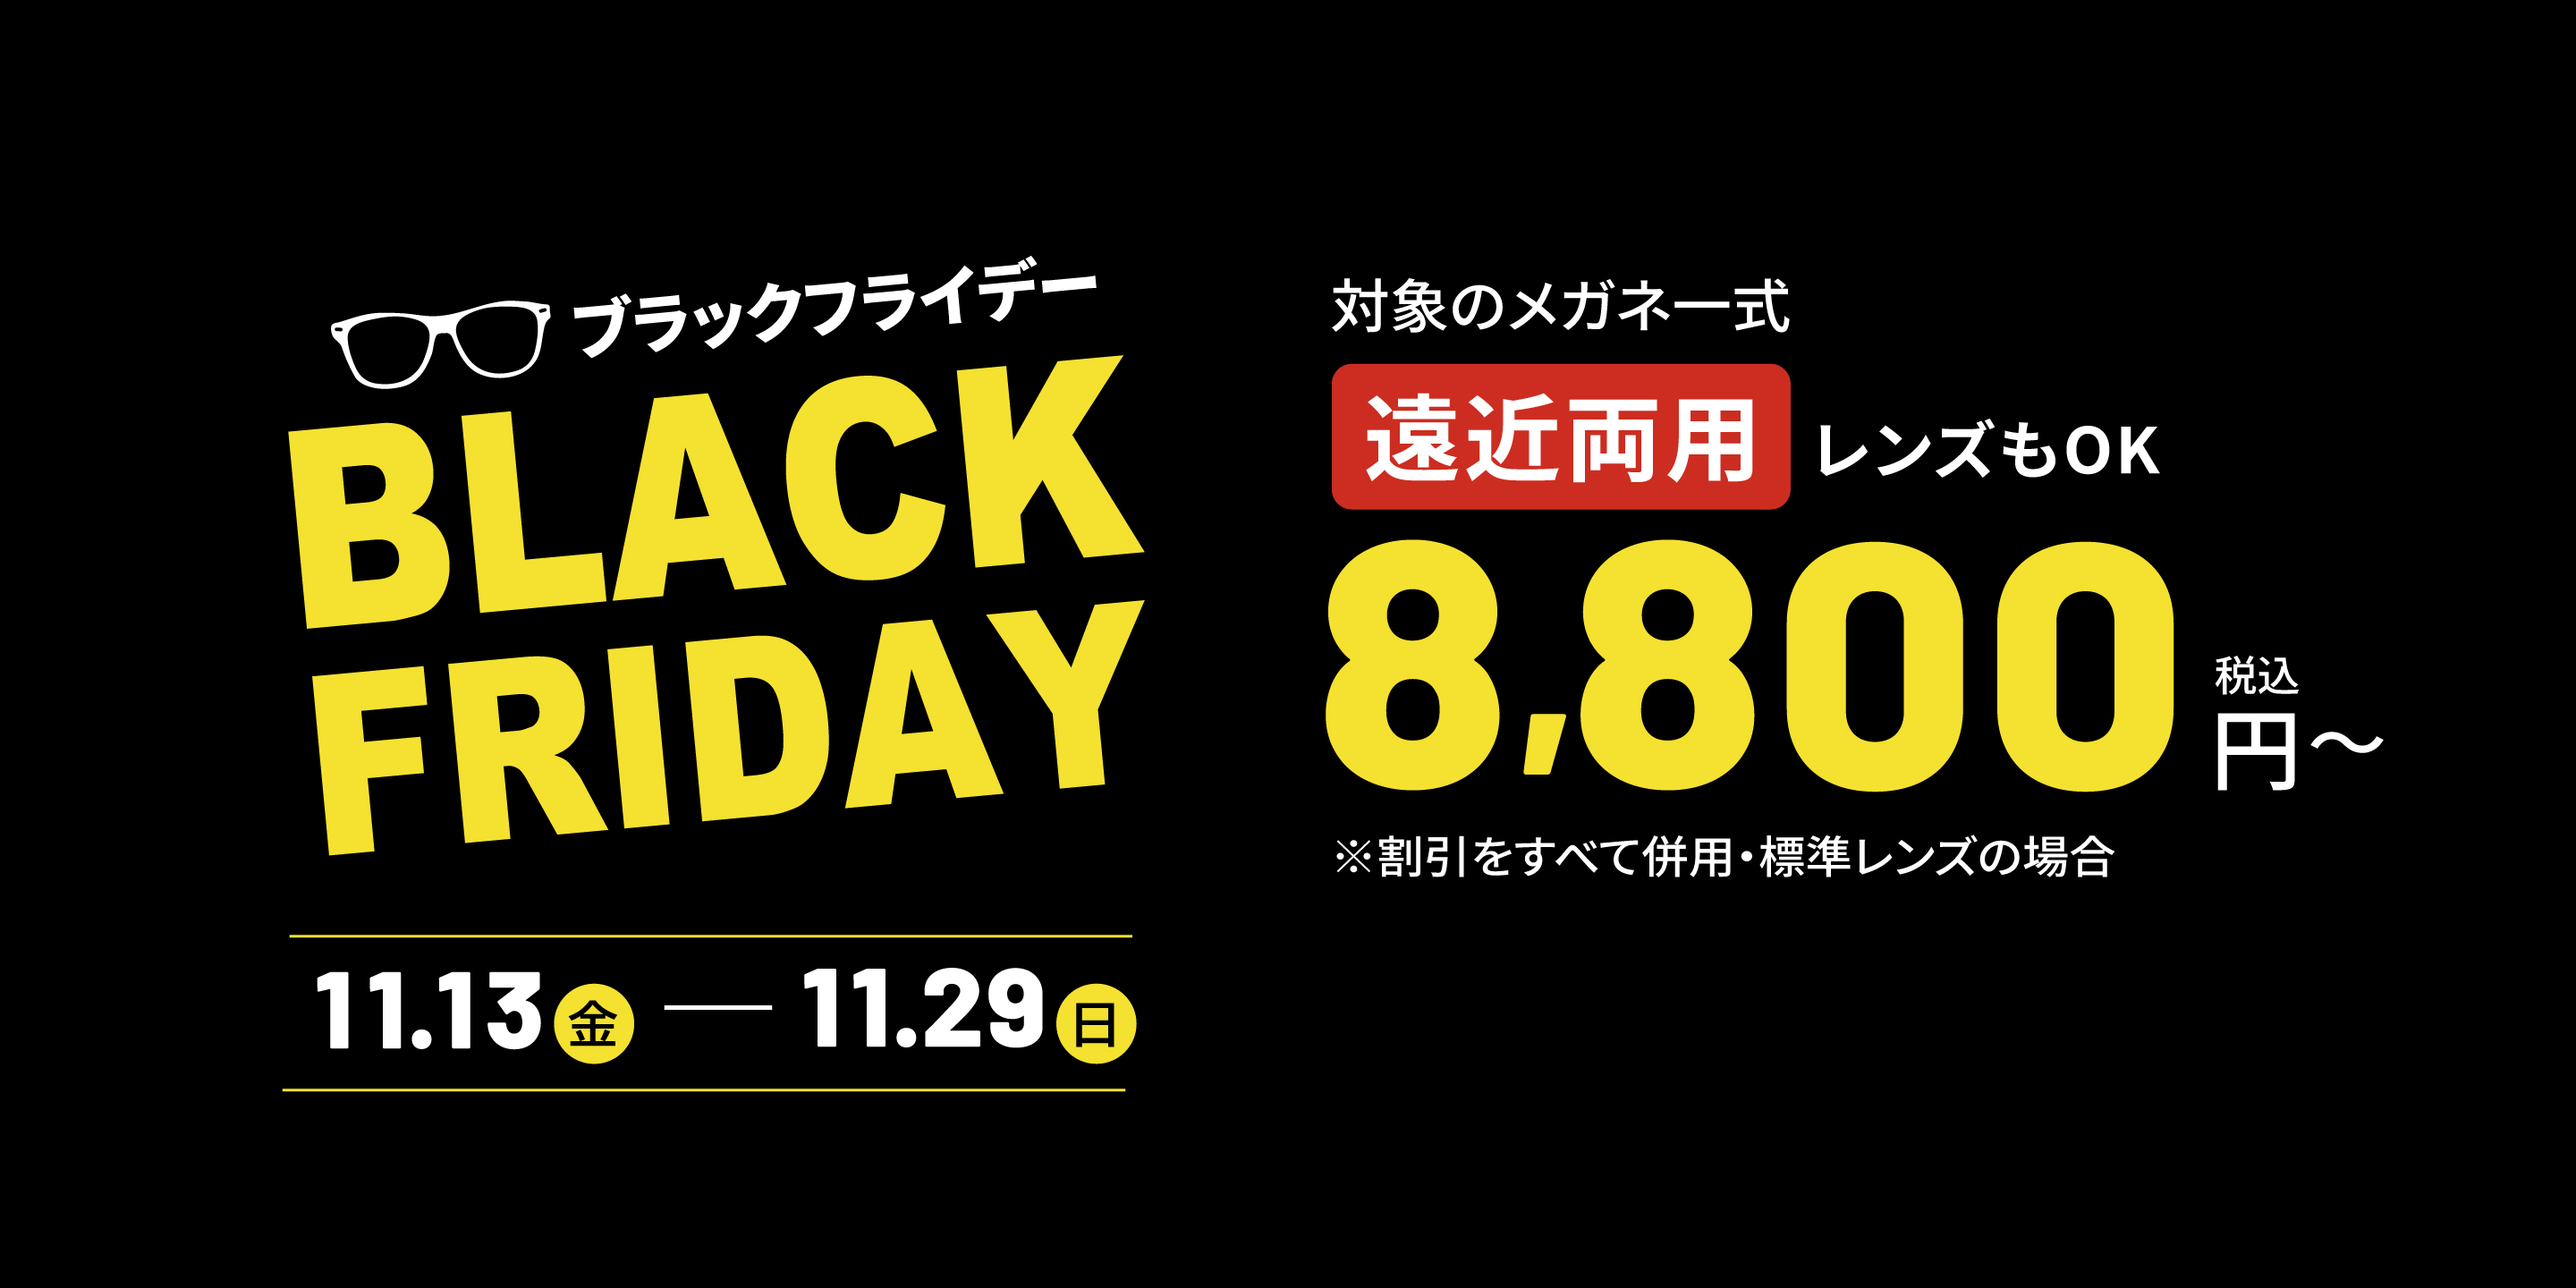
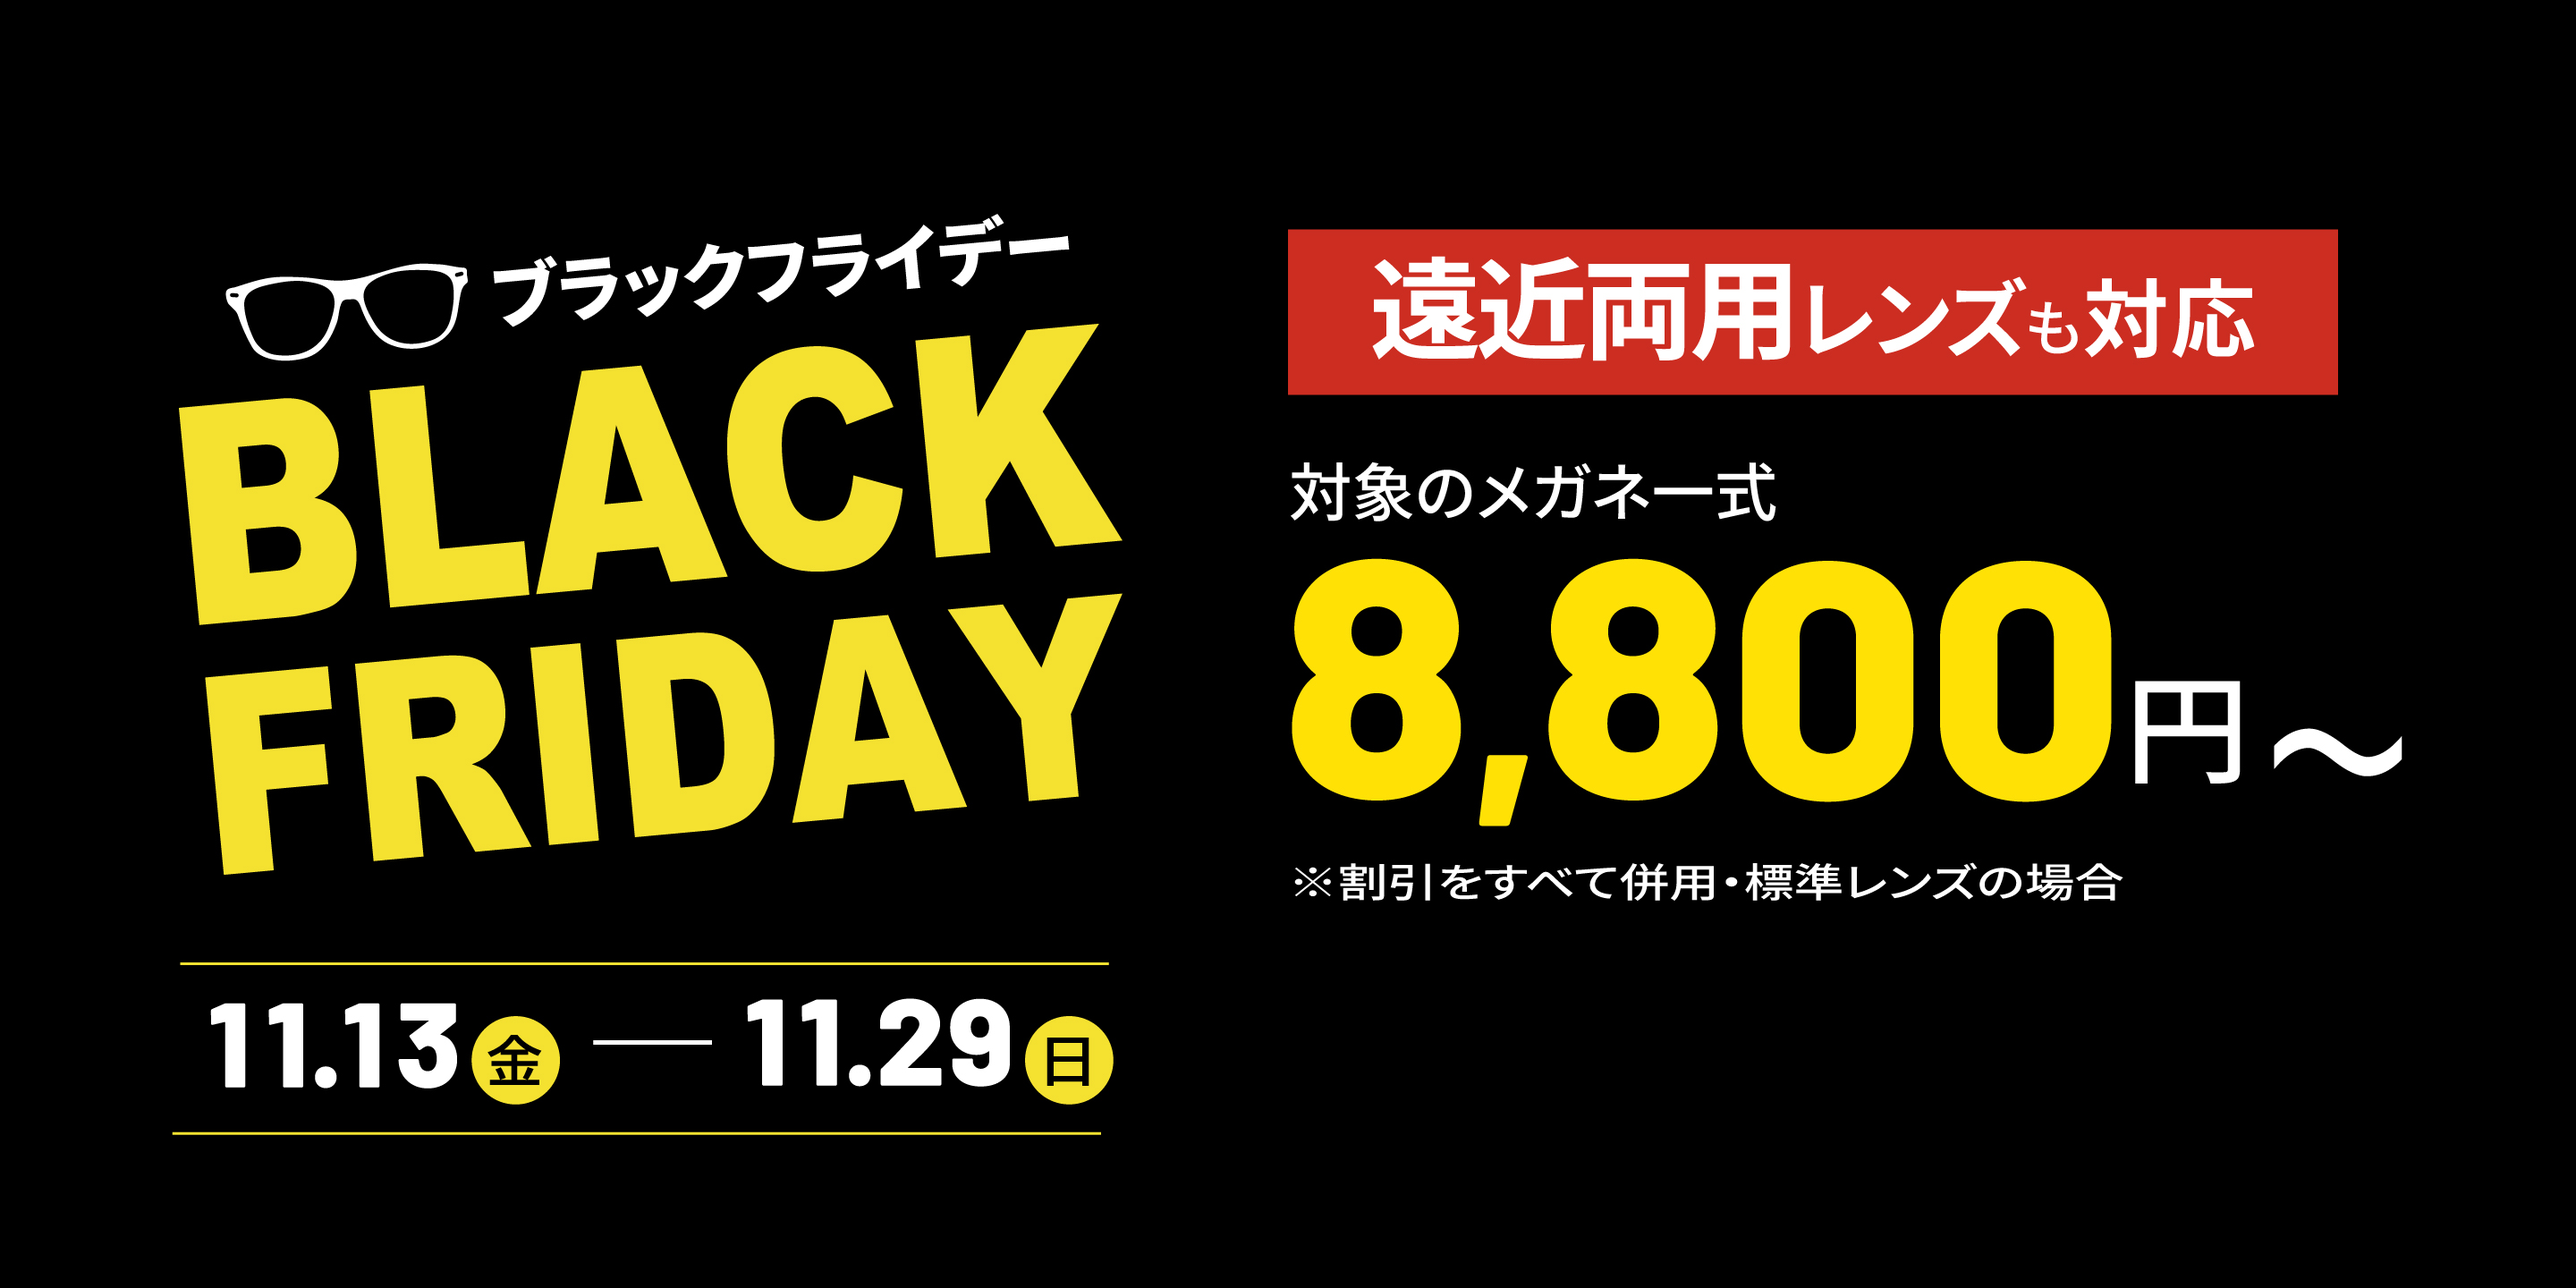
11/4 ご来店からお受け取りまで：ご来店は2回がわかる形に（1回目・2回目の箱＋約1週間後の矢印）

Changed region(s): [[0.5, 0.1562, 0.9375, 0.7188], [0.0625, 0.1562, 0.4375, 0.6875], [0.0625, 0.7188, 0.4375, 0.875]]

diff --git a/index.html b/index.html
@@ -2499,6 +2499,30 @@
     .reasons .reason:nth-child(3) .hs-item[open]:first-child { background: #fafaf7; }
   }
 
+  /* ===== 11/4 ご来店の流れ：「ご来店は2回」がわかる形に（Iさん「もう少しわかりやすく」）。1回目・2回目をそれぞれ箱に、あいだに矢印「約1週間後」 ===== */
+  .flow-lead { text-align: center; font-size: 16px; font-weight: 700; line-height: 1.7; margin: -16px 0 32px; }
+  .flow-lead em { font-style: normal; color: #e8352a; font-size: 1.4em; margin: 0 2px; }
+  .flow-day { background: #fafaf7; border-radius: 10px; padding: 20px 18px 16px; }
+  .flow-day2 .flow-list li { padding-bottom: 4px; }
+  .flow-wait { position: relative; border: 0 !important; padding: 18px 0 30px !important; margin: 0 !important; }
+  .flow-wait::after { content: ""; position: absolute; left: 50%; bottom: 8px; transform: translateX(-50%); border: 12px solid transparent; border-top: 14px solid #f4e030; border-bottom: 0; }
+  @media (min-width: 1024px) {
+    .flow-lead { font-size: 20px; margin: -24px 0 48px; }
+    .flow-in { grid-template-columns: 1fr 150px 210px !important; align-items: stretch !important; }
+    .flow-day { padding: 28px 16px 24px; }
+    .flow-lb { justify-content: center; }
+    .flow-wait { display: flex !important; flex-direction: column; justify-content: center; align-items: center; padding: 0 12px !important; }
+    .flow-wait::before { display: none !important; }
+    .flow-wait::after { position: static; transform: none; margin-top: 10px; border: 14px solid transparent; border-left: 18px solid #f4e030; border-right: 0; order: 2; }
+    .flow-wait-t { order: 1; }
+    .flow-wait small { order: 3; margin-top: 10px !important; }
+    .flow-day2 { display: flex; flex-direction: column; }
+    .flow-day2 .flow-list { flex: 1; display: flex; align-items: flex-start; justify-content: center; }
+    .flow-day .flow-list b { white-space: nowrap; font-size: 16px; }
+    .flow-day .flow-list li { padding: 0 2px !important; }
+    .flow-day .flow-list small { font-size: 12px !important; }
+  }
+
   /* ===== 11/3 選ばれる理由：PCは「文字｜絵」の2列を左右交互に（真ん中寄せの1列は中途半端・Iさん）。番号は丸→大きい01・02・03 ===== */
   @media (min-width: 1024px) {
     .reasons { max-width: 1080px !important; }
@@ -2948,9 +2972,10 @@
   <!-- 11/3 ご来店からお受け取りまで（Zoffの遠近LPの「できるまで」を参考に、はじめての方の「何回・どれくらい？」に答える。内容はIさん） -->
   <section class="sec flow" id="flow">
     <div class="sec-head"><h2 class="sec-ja">ご来店から<br class="pc-hide">お受け取りまで</h2></div>
+    <p class="flow-lead">ご来店は<em>2回</em>。<br class="pc-hide">1回目は約1時間、<br class="pc-hide">約1週間後にお受け取りです</p><!-- 11/4 何回行くかがひと目でわかるように（Iさん） -->
     <div class="flow-in">
       <div class="flow-day">
-        <p class="flow-lb"><span class="flow-tag">ご来店の日</span><span class="flow-time">約<b>1</b>時間</span></p>
+        <p class="flow-lb"><span class="flow-tag">1回目のご来店</span><span class="flow-time">約<b>1</b>時間</span></p>
         <ol class="flow-list">
           <li><span class="flow-ic"><svg viewBox="0 0 48 48" aria-hidden="true"><circle cx="24" cy="24" r="16"/><circle cx="24" cy="24" r="6"/><path d="M24 4v6M24 38v6M4 24h6M38 24h6"/></svg></span><span class="flow-n">STEP 1</span><b>目の測定</b><small>今の見え方をしっかり測ります</small></li>
           <li><span class="flow-ic"><svg viewBox="0 0 48 48" aria-hidden="true"><circle cx="14" cy="26" r="8"/><circle cx="34" cy="26" r="8"/><path d="M22 25q2-3 4 0M6 25H3M42 25h3"/></svg></span><span class="flow-n">STEP 2</span><b>フレーム選び</b><small>似合う形を、いっしょに探します</small></li>
@@ -2959,9 +2984,9 @@
           <li><span class="flow-ic"><svg viewBox="0 0 48 48" aria-hidden="true"><rect x="7" y="13" width="34" height="22" rx="3"/><path d="M7 20h34M13 29h8"/></svg></span><span class="flow-n">STEP 5</span><b>お会計</b><small>割引はすべて併用できます</small></li>
         </ol>
       </div>
-      <p class="flow-wait"><span class="flow-wait-t">約<b>1</b>週間</span><small>※レンズの種類によって前後します</small></p>
+      <p class="flow-wait"><span class="flow-wait-t">約<b>1</b>週間後</span><small>※レンズの種類によって前後します</small></p>
       <div class="flow-day flow-day2">
-        <p class="flow-lb"><span class="flow-tag">できあがり</span></p>
+        <p class="flow-lb"><span class="flow-tag">2回目のご来店</span></p>
         <ol class="flow-list" start="6">
           <li><span class="flow-ic"><svg viewBox="0 0 48 48" aria-hidden="true"><rect x="8" y="18" width="32" height="22" rx="2"/><path d="M8 26h32M24 18v22"/><path d="M24 18q-8-10-12-4t12 4q8-10 12-4t-12 4"/></svg></span><span class="flow-n">STEP 6</span><b>お受け取り</b><small>できあがったメガネをお渡しします</small></li>
         </ol>
